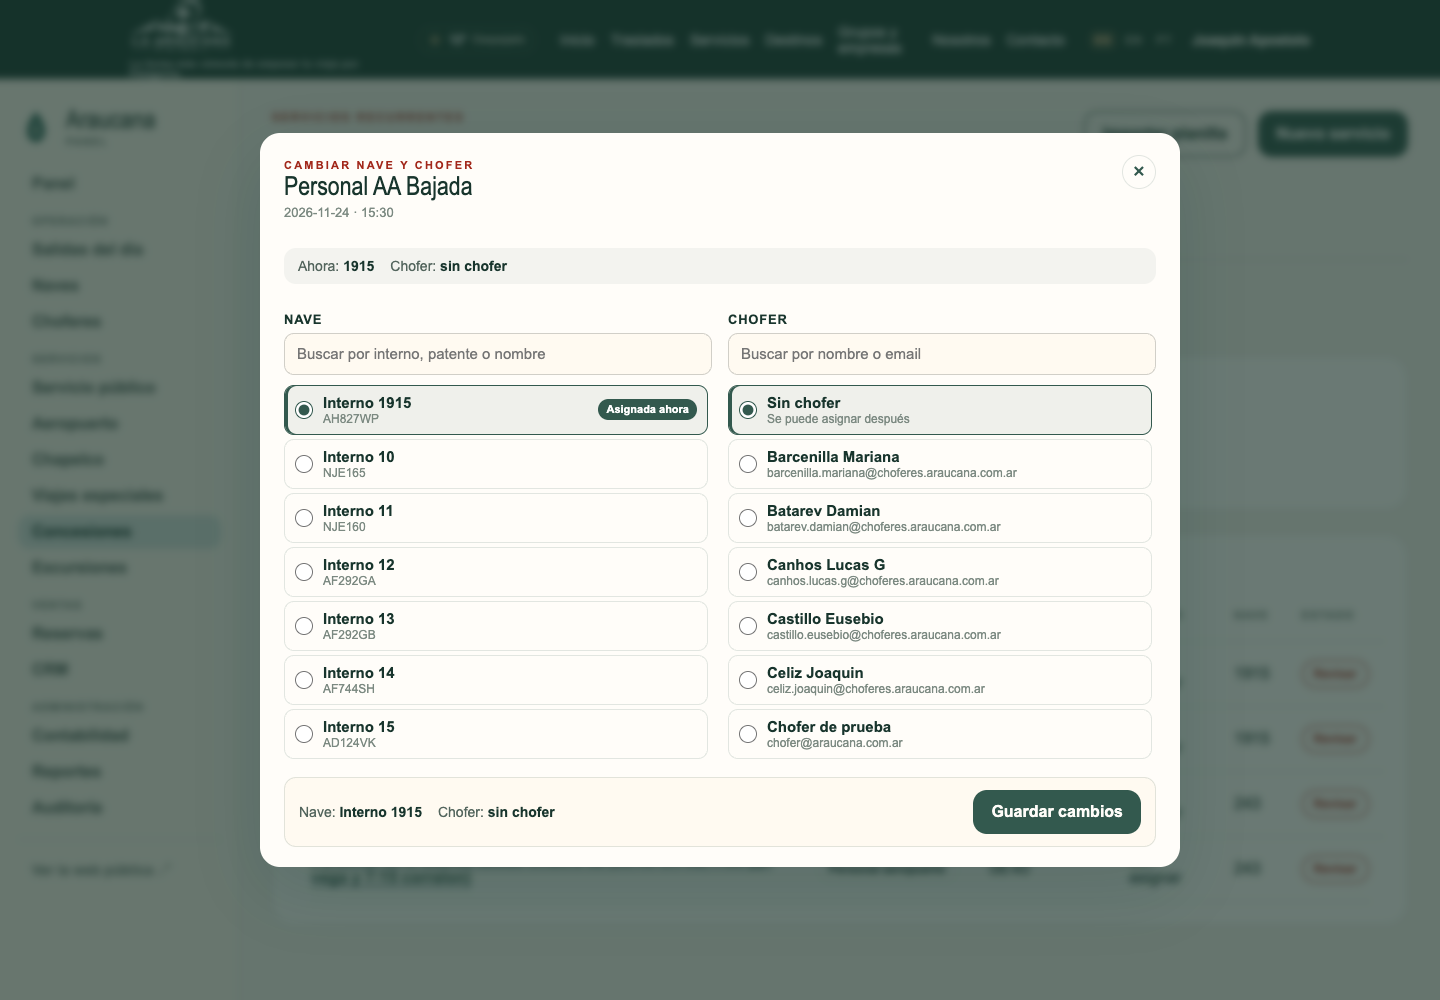
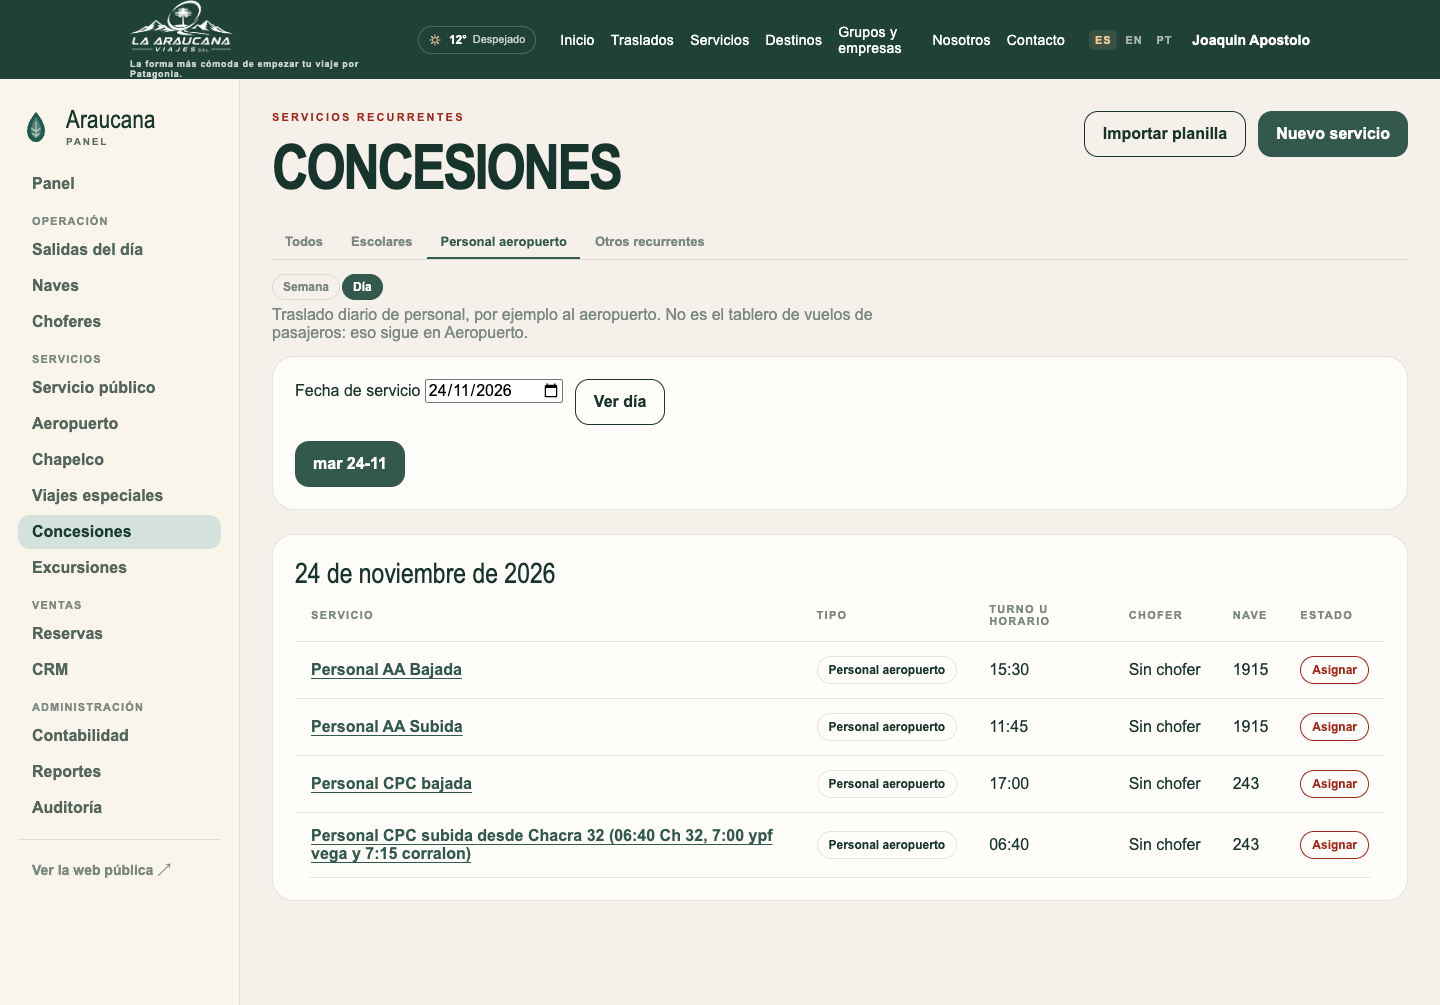
style(concesiones): alinear tablas y acciones con el panel
Sin chofer/Sin nave en una línea, acción Asignar explícita y pestaña Día activa en la vista diaria de Viajes especiales.

diff --git a/src/app/admin/escolares/page.tsx b/src/app/admin/escolares/page.tsx
@@ -57,11 +57,11 @@ export default async function SchoolsPage({ searchParams }: { searchParams: Prom
     <section className="plain-card admin-section">
       <h2>{day.toLocaleDateString("es-AR", { dateStyle: "long", timeZone: "UTC" })}</h2>
       {!runs.length ? <p className="muted">No hay servicios {tipo ? etiquetaDeConcesion(tipo).toLowerCase() : "recurrentes"} para este día.</p> : <div className="table-scroll">
-        <table className="data-table"><thead><tr>{["Servicio", "Tipo", "Turno u horario", "Chofer", "Nave", "Estado"].map(h => <th key={h} scope="col">{h}</th>)}</tr></thead>
+        <table className="data-table concesiones-dia-tabla"><thead><tr>{["Servicio", "Tipo", "Turno u horario", "Chofer", "Nave", "Estado"].map(h => <th key={h} scope="col">{h}</th>)}</tr></thead>
           <tbody>{runs.map(run => <tr key={run.id}>
             <td><Link className="table-link" href={`/admin/escolares/${run.id}`}>{run.routeName}</Link></td>
             <td><span className="pill">{etiquetaDeConcesion(run.kind)}</span></td>
-            <td>{run.shift}</td><td>{run.driver?.name ?? run.driver?.email ?? "Sin asignar"}</td><td>{run.vehicle?.name ?? "Sin asignar"}</td>
+            <td>{run.shift}</td><td>{run.driver?.name ?? run.driver?.email ?? "Sin chofer"}</td><td>{run.vehicle?.name ?? "Sin nave"}</td>
             <td><AsignarRecursosConcesion
               id={run.id}
               titulo={run.routeName}
@@ -73,8 +73,8 @@ export default async function SchoolsPage({ searchParams }: { searchParams: Prom
               choferes={choferes.map((chofer) => ({ id: chofer.id, label: chofer.name?.trim() || chofer.email, email: chofer.email }))}
               naveActual={run.vehicleId ?? ""}
               choferActual={run.driverId ?? ""}
-              trigger={run.review || !run.driverId || !run.vehicleId ? "Revisar" : "Asignado"}
-              triggerClassName={`pill school-assign-trigger${run.review || !run.driverId || !run.vehicleId ? " school-assign-trigger-pendiente" : ""}`}
+              trigger={!run.driverId || !run.vehicleId ? "Asignar" : run.review ? "Revisar" : "Asignado"}
+              triggerClassName={`pill school-assign-trigger${!run.driverId || !run.vehicleId ? " school-assign-trigger-pendiente" : ""}`}
             /></td>
           </tr>)}</tbody></table>
       </div>}

diff --git a/src/app/admin/escolares/escolares.css b/src/app/admin/escolares/escolares.css
@@ -47,7 +47,8 @@
 .cn-semana-servicio strong { font-size: 12px; line-height: 1.25; }
 .cn-semana-servicio span { color: var(--ink-muted); font-size: 11px; }
 .cn-semana-servicio .pill { justify-self: start; font-size: 10px; }
-.school-assign-trigger { cursor: pointer; font-family: inherit; background: transparent; }
+.concesiones-dia-tabla td:nth-child(4), .concesiones-dia-tabla td:nth-child(5) { white-space: nowrap; }
+.school-assign-trigger { cursor: pointer; font-family: inherit; background: transparent; white-space: nowrap; }
 .school-assign-trigger:hover { border-color: var(--primary); color: var(--primary); }
 .school-assign-trigger-pendiente { color: var(--accent); border-color: var(--accent); }
 .cn-semana-agregar { color: var(--primary); font-size: 11px; font-weight: 800; text-decoration: none; }

diff --git a/src/app/admin/viajes-especiales/view-tabs.tsx b/src/app/admin/viajes-especiales/view-tabs.tsx
@@ -6,10 +6,11 @@ import { specialTripsViewHref, type SpecialTripsView } from "./view";
 
 const tabs = { calendario: "Calendario semanal", listado: "Listado" } as const;
 
-export function SpecialTripsViewTabs({ active }: { active: SpecialTripsView }) {
+export function SpecialTripsViewTabs({ active }: { active: SpecialTripsView | "dia" }) {
   const params = useSearchParams();
   return (
     <nav className="vesp-vistas" aria-label="Vistas de viajes especiales">
+      {active === "dia" ? <span className="dia-chip activo" aria-current="page">Día</span> : null}
       {(Object.keys(tabs) as SpecialTripsView[]).map((view) => view === active ? (
         <span key={view} className="dia-chip activo" aria-current="page">{tabs[view]}</span>
       ) : (

diff --git a/src/app/admin/viajes-especiales/dia/page.tsx b/src/app/admin/viajes-especiales/dia/page.tsx
@@ -47,7 +47,7 @@ export default async function SpecialTripDayPage({ searchParams }: {
         <Link className="ghost-button" href={`${base}/semana?semana=${lunesDe(clave)}`}>Volver al calendario</Link>
         <Link className="button" href={`${base}/nuevo?fecha=${clave}`}>Nuevo viaje</Link>
       </div>}>
-      <SpecialTripsViewTabs active="calendario" />
+      <SpecialTripsViewTabs active="dia" />
       <section className="plain-card admin-section">
         <div className="inline-actions" style={{ justifyContent: "space-between" }}>
           <h2 style={{ margin: 0 }}>{fechaLarga.format(fecha)}</h2>
